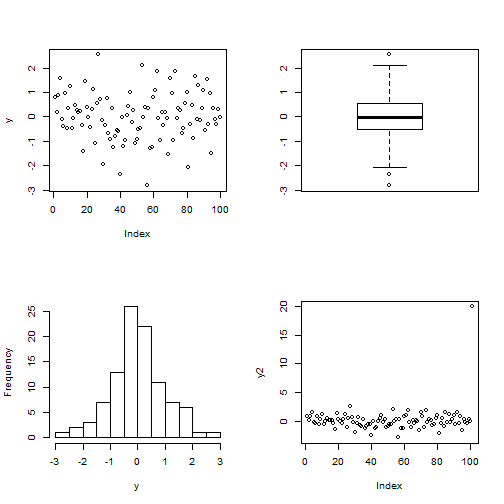
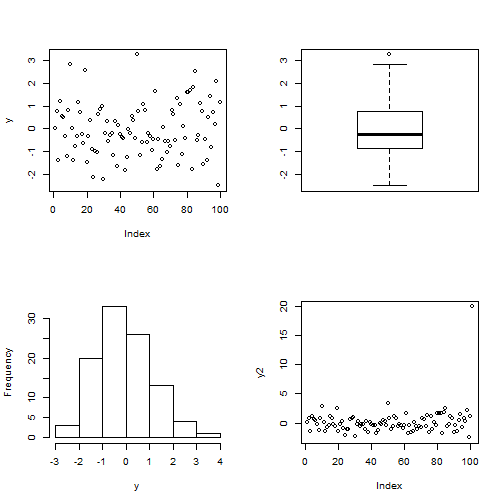
add

diff --git a/5 classical tests.md b/5 classical tests.md
@@ -1,7 +1,7 @@
 Classical Tests
 ========================================================
 author: Guochun Shen
-date: Wed Mar 26 09:42:11 2014
+date: Wed Mar 26 11:05:55 2014
 
 Occam's razor
 ========================================================
@@ -57,7 +57,7 @@ summary(y)
 
 ```
    Min. 1st Qu.  Median    Mean 3rd Qu.    Max. 
--2.8100 -0.5170 -0.0175  0.0180  0.5350  2.5600 
+ -2.510  -0.824  -0.224  -0.052   0.755   3.300 
 ```
 
 
@@ -86,7 +86,7 @@ shapiro.test(y)
 	Shapiro-Wilk normality test
 
 data:  y
-W = 0.9932, p-value = 0.9014
+W = 0.9843, p-value = 0.2803
 ```
 
 
@@ -103,7 +103,7 @@ shapiro.test(x)
 	Shapiro-Wilk normality test
 
 data:  x
-W = 0.5247, p-value = 9.88e-09
+W = 0.884, p-value = 0.003495
 ```
 
 
@@ -133,13 +133,13 @@ t.test(x,mu=0)
 	One Sample t-test
 
 data:  x
-t = 7.782, df = 99, p-value = 7.014e-12
+t = 8.26, df = 99, p-value = 6.648e-13
 alternative hypothesis: true mean is not equal to 0
 95 percent confidence interval:
- 0.6146 1.0353
+ 0.745 1.216
 sample estimates:
 mean of x 
-    0.825 
+   0.9805 
 ```
 
 
@@ -148,7 +148,7 @@ Test the mean against expectation
 
 
 ```r
-y=1+log(rnorm(100))
+y=1+exp(rnorm(100))
 ```
 
 Does the mean of y significantly different with 1?
@@ -168,7 +168,7 @@ wilcox.test(y,mu=1)
 	Wilcoxon signed rank test with continuity correction
 
 data:  y
-V = 301, p-value = 0.0002473
+V = 5050, p-value < 2.2e-16
 alternative hypothesis: true location is not equal to 1
 ```
 
@@ -199,13 +199,13 @@ var.test(x,y)
 	F test to compare two variances
 
 data:  x and y
-F = 0.0338, num df = 99, denom df = 88, p-value < 2.2e-16
+F = 0.0443, num df = 99, denom df = 88, p-value < 2.2e-16
 alternative hypothesis: true ratio of variances is not equal to 1
 95 percent confidence interval:
- 0.02242 0.05076
+ 0.02934 0.06643
 sample estimates:
 ratio of variances 
-           0.03382 
+           0.04426 
 ```
 
 
@@ -226,7 +226,7 @@ fligner.test(y~g)
 	Fligner-Killeen test of homogeneity of variances
 
 data:  y by g
-Fligner-Killeen:med chi-squared = 91.19, df = 1, p-value < 2.2e-16
+Fligner-Killeen:med chi-squared = 87.36, df = 1, p-value < 2.2e-16
 ```
 
 
@@ -262,13 +262,13 @@ r1
 	Welch Two Sample t-test
 
 data:  x and y
-t = 1.106, df = 232.7, p-value = 0.2699
+t = 1.412, df = 243.4, p-value = 0.1591
 alternative hypothesis: true difference in means is not equal to 0
 95 percent confidence interval:
- -0.4774  1.6991
+ -0.2954  1.7924
 sample estimates:
 mean of x mean of y 
-   0.8220    0.2112 
+   1.1707    0.4222 
 ```
 
 
@@ -286,7 +286,7 @@ r2
 	Wilcoxon rank sum test with continuity correction
 
 data:  x and y
-W = 9529, p-value = 0.9075
+W = 9854, p-value = 0.5505
 alternative hypothesis: true location shift is not equal to 0
 ```
 
@@ -302,7 +302,7 @@ r1$p.value # pvalue of Student t test
 ```
 
 ```
-[1] 0.2699
+[1] 0.1591
 ```
 
 ```r
@@ -310,7 +310,7 @@ r2$p.value # pvalue of Wilcoxon test
 ```
 
 ```
-[1] 0.9075
+[1] 0.5505
 ```
 
 
@@ -596,7 +596,7 @@ ks.test(x, y)
 	Two-sample Kolmogorov-Smirnov test
 
 data:  x and y
-D = 0.56, p-value = 6.303e-06
+D = 0.4, p-value = 0.003526
 alternative hypothesis: two-sided
 ```
 
@@ -618,7 +618,7 @@ ks.test(y, "pnorm",mean(y),sd(y))
 	One-sample Kolmogorov-Smirnov test
 
 data:  y
-D = 0.0965, p-value = 0.9174
+D = 0.1216, p-value = 0.7215
 alternative hypothesis: two-sided
 ```
 
@@ -637,7 +637,7 @@ shapiro.test(y)
 	Shapiro-Wilk normality test
 
 data:  y
-W = 0.9494, p-value = 0.1626
+W = 0.9612, p-value = 0.3326
 ```
 
 
@@ -863,7 +863,7 @@ sum(null_r>obs_r)/(1000)
 ```
 
 ```
-[1] 0.011
+[1] 0.01
 ```
 
 ***
@@ -885,7 +885,7 @@ sum(abs(null_r)>abs(obs_r))/(1000)
 ```
 
 ```
-[1] 0.021
+[1] 0.022
 ```
 
 ***

diff --git a/0 introduction.md b/0 introduction.md
@@ -1,7 +1,7 @@
 《生态统计学》
 ========================================================
 author: 沈国春
-date: Thu Feb 27 21:27:02 2014
+date: Wed Mar 26 10:02:41 2014
 
 为什么要学这门课？
 ======================================================
@@ -37,7 +37,7 @@ date: Thu Feb 27 21:27:02 2014
 需要做课堂笔记吗？
 ========================================================
 
-除了你自己领会并需要记录的内容，其他在课堂ppt上的所有内容都可以在http://www.guochun.info 上下载。
+除了你自己领会并需要记录的内容，其他在课堂ppt上的所有内容都可以在http://www.github.com/guochunshen 上下载。
 
 如果有疑问怎么办？
 =======================================================
